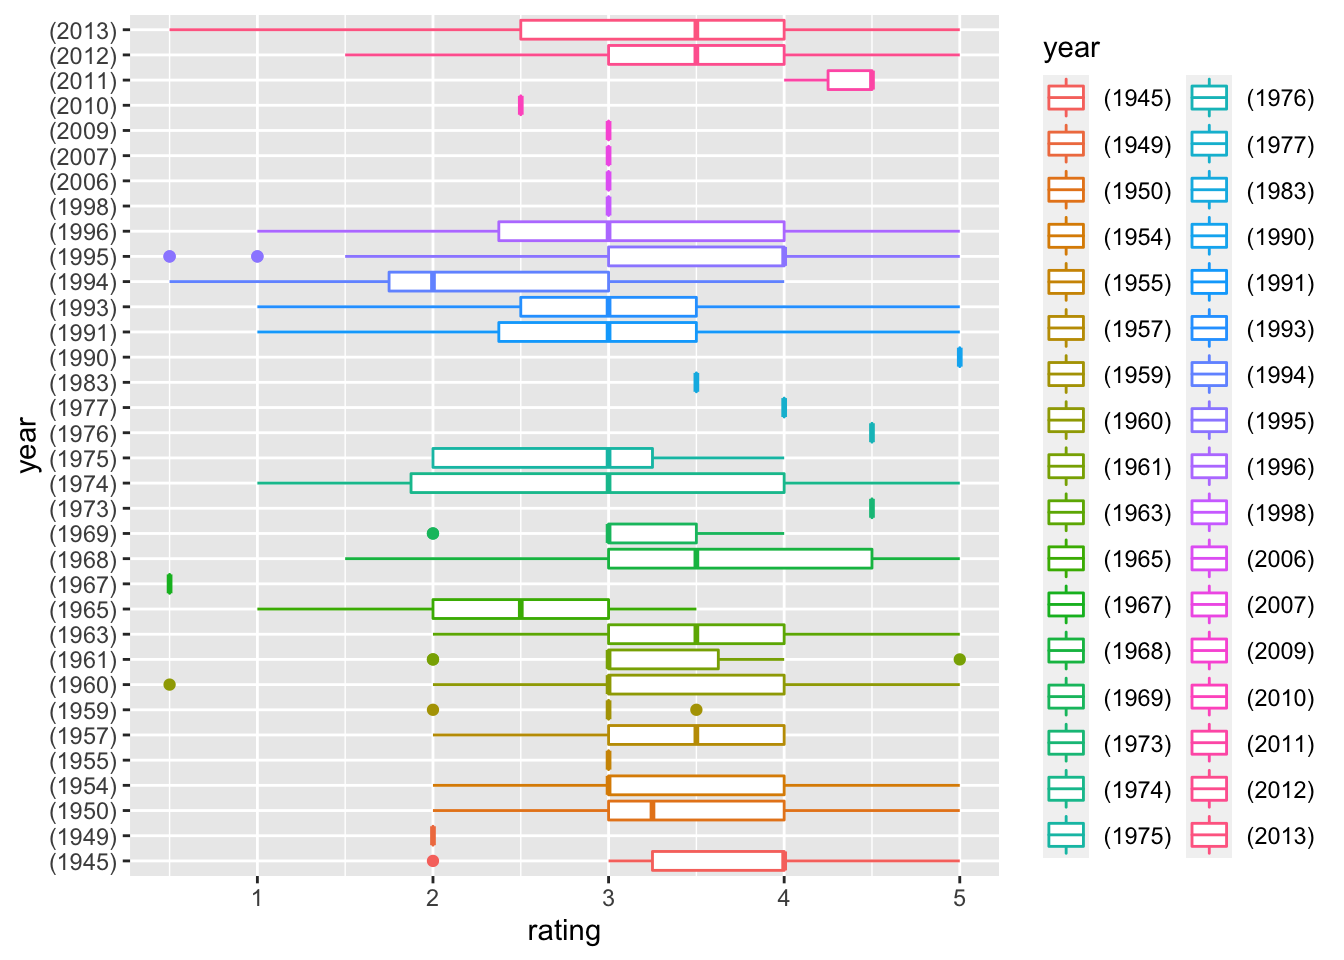
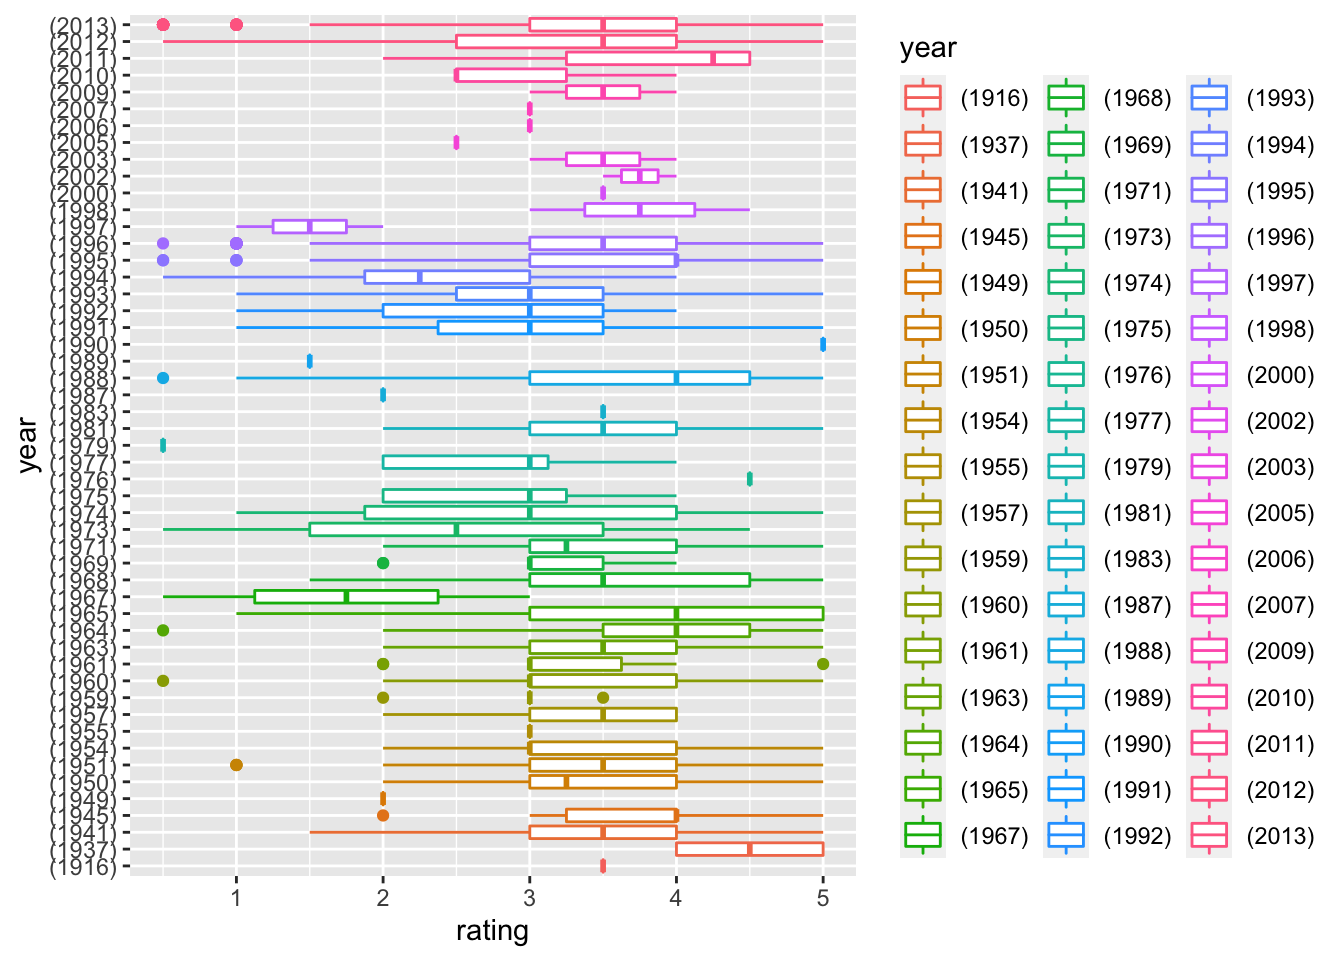
EDA finished, need to check grammar--yw3608

diff --git a/EDA.html b/EDA.html
@@ -976,7 +976,7 @@ Drama
 </tr>
 </tbody>
 </table>
-<strong>Find the average rating of each genres in different year</strong>:</li>
+<strong>Find the average rating of each genres in different year</strong>: In 1902, the average ratings for genres Action, Adventure, Fantasy, Sci-Fi are all 3.5. In 1903, the average ratings for genres Crime and Western are both 2.5. The averages for genres Animation, Comedy, Sci-Fi in 1908 are all 4.0. The genre Drama’s average ratings in 1915 is 2.0.</li>
 </ol></li>
 </ol></li>
 </ol></li>
@@ -1006,6 +1006,7 @@ filter_ratingscore =
   ggplot(aes(x = rating, y = genres)) + geom_boxplot(aes(color = genres))
 boxplot_df </code></pre>
 <p><img src="EDA_files/figure-html/unnamed-chunk-10-1.png" width="672" /></p>
+<p><strong>The boxplot regarding ratings and genres shows</strong>: The spread of the ratings of War, Mystery,Horror and Crime are larger comparing to the other ratings of genres. All of ratings have outliers around either 1.0 point or 0.5 point. The ratings of genres Film-Noir and documentary have outliers at 1.5 points.We can also conclude that the mean of the ratings of genres like Thriller,sci-fi, Romance, Musical, Horror, Fantasy, Comedy, Children, Adventure and Action all equal to 3.5. The mean of the ratings of genres include Western, War, Mystery, IMAX, Film-Noir, Drama, Documentary, Crime and Animation all equal to 4.</p>
 </div>
 <div id="boxplot-regarding-ratings-and-years" class="section level1">
 <h1>Boxplot regarding: ratings and years</h1>
@@ -1016,14 +1017,26 @@ boxplot_df </code></pre>
   title, c(&quot;name&quot;, &quot;year&quot;), sep=&quot;\\s+(?=\\S*$)&quot;) </code></pre>
 <pre class="r"><code>boxplot_df2 = 
   merge(filter_ratingscore, movie_names) %&gt;%
-  head(1000) %&gt;% 
+  head(2500) %&gt;% 
   ggplot(aes(x = rating, y = year)) + geom_boxplot(aes(color = year))+
   viridis::scale_fill_viridis(discrete = TRUE)
 boxplot_df2 </code></pre>
 <p><img src="EDA_files/figure-html/unnamed-chunk-12-1.png" width="672" /></p>
+<p><strong>The boxplot regarding ratings and year shows</strong>: Since this dataset include too much year, we choose to show only part of the boxplot regarding year and rating. According to the boxplot, we can conclude that the rating of years including 2010, 2009, 2007,2006 and 1998 have the least rating data records. There is no obovious trend shown in the plot.</p>
 </div>
-<div id="kruskal-test-regarding-user_id-and-rating" class="section level1">
-<h1>Kruskal Test regarding user_id and rating</h1>
+<div id="kruskal-test-regarding-user-id-and-rating" class="section level1">
+<h1>Kruskal Test regarding user ID and rating</h1>
+<ul>
+<li>Here, we want to do a test to determine whether there are any statistically significant differences between the mean ratings of the user from the 600 users are different(ANOVA)</li>
+<li>First, we checked whether the rating is normally distributed.</li>
+</ul>
+<pre class="r"><code>ggplot(filter_ratingscore, aes(x = rating, y = ..density..)) + 
+  geom_histogram(alpha = 0.3, bins = 30)</code></pre>
+<p><img src="EDA_files/figure-html/unnamed-chunk-13-1.png" width="672" /></p>
+<ul>
+<li>The plot shows that the raing is not normally distributed, we need to use non parametric test.</li>
+<li>Thus, we used the Kruskal Test regarding user ID and rating.</li>
+</ul>
 <p>Assumption:</p>
 <p><span class="math inline">\(H_0:\mu_{0}=\mu_1=\mu_2=\mu_3=...=\mu _x\)</span> <span class="math inline">\(H_1: At\ least\ two\ of\ the\ mean\ ratings\ of\ the\  users\ are\ different.\)</span></p>
 <pre class="r"><code>kruskal.test(rating ~ user_id, data = filter_ratingscore) %&gt;% 
